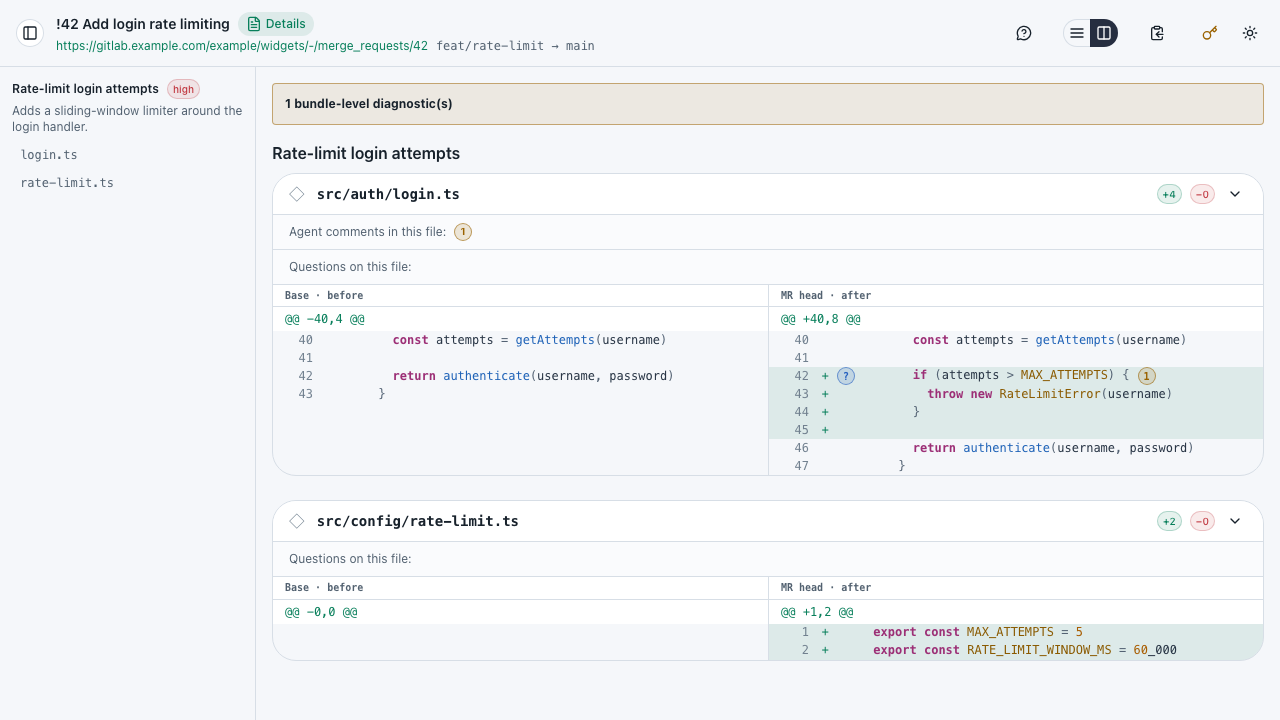
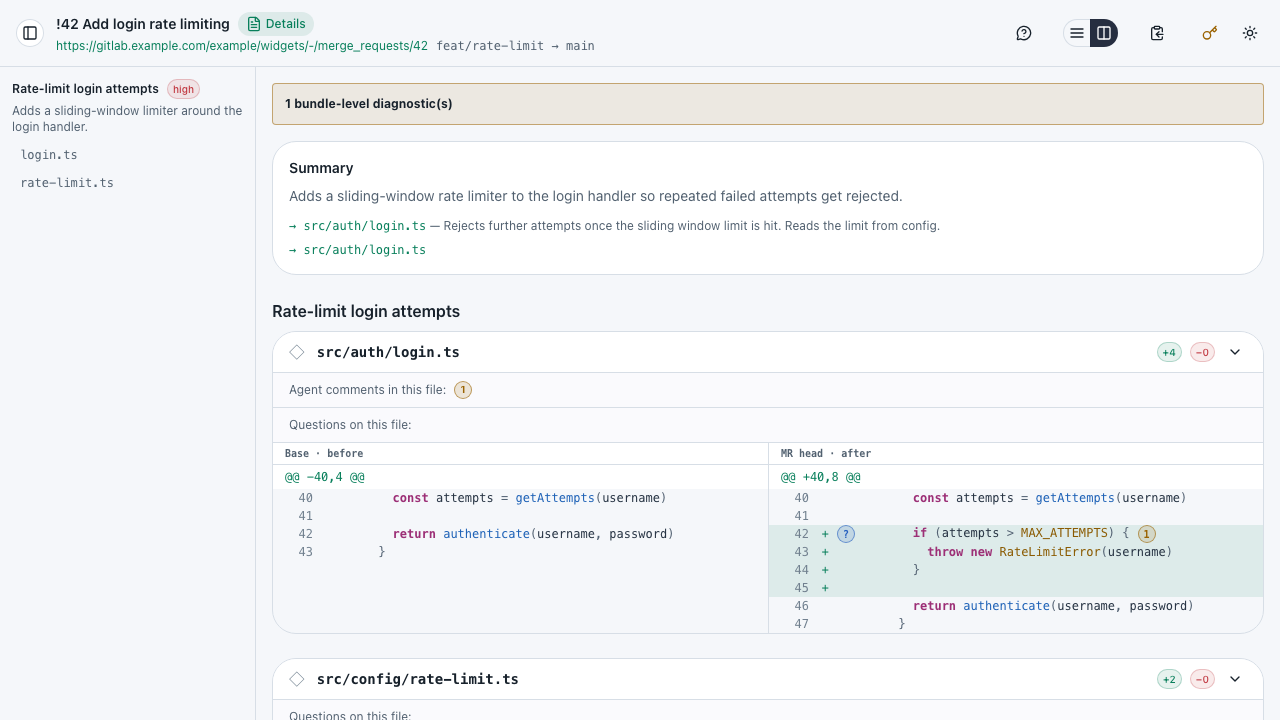
feat: add a Summary panel to the Review Document
Adds an optional summary field to the Review Document schema —
{ text, highlightAnnotationIds?, highlightPaths? } — so a reviewer can
scan intent and jump to the most important annotations/files before
reading the full diff.

- schema + types: validate the new optional summary shape
- renderer: resolves highlightAnnotationIds/highlightPaths onto the
  view model, dropping dangling refs silently (same treatment as
  other cross-references in the document)
- UI: new SummaryPanel.vue rendered above the diff, reusing the
  existing anchorId/scrollIntoView jump pattern
- Generator docs (SKILL.md, FRAMEWORK.md, framework.md) updated so
  future generations populate it

Also fixes two pre-existing e2e fragilities the layout shift exposed:
a floating-popover/Playwright-autoscroll race, and a subpixel
anti-aliasing screenshot flake.

diff --git a/e2e/review-workspace.spec.ts b/e2e/review-workspace.spec.ts
@@ -15,7 +15,7 @@ async function forceLightMode(page: Page) {
 
 async function waitForReviewLoaded(page: Page) {
   await expect(page.getByRole('heading', { name: 'Rate-limit login attempts' })).toBeVisible()
-  await expect(page.getByText('src/auth/login.ts')).toBeVisible()
+  await expect(page.getByText('src/auth/login.ts').first()).toBeVisible()
 }
 
 function bannerButtons(page: Page) {
@@ -58,6 +58,16 @@ test.describe('enriched bundle', () => {
     await dialog.screenshot({ path: join(docScreenshots, 'mr-details.png') })
   })
 
+  test('shows a Summary panel that jumps to a highlighted file on click', async ({ page }) => {
+    const panel = page.getByRole('region', { name: 'Summary' })
+    await expect(panel.getByText('Adds a sliding-window rate limiter')).toBeVisible()
+    await expect(panel).toHaveScreenshot('summary-panel.png')
+    await panel.screenshot({ path: join(docScreenshots, 'summary-panel.png') })
+
+    await panel.getByRole('button', { name: '→ src/auth/login.ts' }).first().click()
+    await expect(page.locator('#file-src-auth-login-ts')).toBeInViewport()
+  })
+
   test('opens annotation note popover', async ({ page }) => {
     await page.getByRole('button', { name: /Note 1:/ }).click()
     const popover = page.locator('div.w-80').filter({ hasText: 'Rejects further attempts' })
@@ -68,11 +78,20 @@ test.describe('enriched bundle', () => {
   })
 
   test('shows related code preview in annotation popover', async ({ page }) => {
-    await page.getByRole('button', { name: /Note 1:/ }).click()
+    // The Summary panel pushes this annotation further down the page than the default
+    // viewport height, and Reka UI's floating popover re-flips/re-shifts on every
+    // scroll tick — racing Playwright's own auto-scroll-into-view for the screenshot
+    // and never settling. A taller viewport gives the popover room without flipping.
+    await page.setViewportSize({ width: 1280, height: 1400 })
+    const trigger = page.getByRole('button', { name: /Note 1:/ })
+    await trigger.scrollIntoViewIfNeeded()
+    await trigger.click()
     const popover = page.locator('div.w-80').filter({ hasText: 'Rejects further attempts' })
     await popover.getByRole('button', { name: '→ src/config/rate-limit.ts' }).hover()
     await expect(popover.getByText('export const MAX_ATTEMPTS = 5')).toBeVisible()
-    await expect(popover).toHaveScreenshot('annotation-related-code-preview.png')
+    // A fraction-of-a-pixel scroll offset shifts subpixel text rendering here — tolerate
+    // that anti-aliasing noise, content and structure are already asserted above.
+    await expect(popover).toHaveScreenshot('annotation-related-code-preview.png', { maxDiffPixelRatio: 0.02 })
     await popover.screenshot({ path: join(docScreenshots, 'annotation-related-code-preview.png') })
   })
 })

diff --git a/src/renderer/render.test.ts b/src/renderer/render.test.ts
@@ -231,6 +231,38 @@ describe('render', () => {
   it('resolves a relative bundle path to an absolute one in the prompt', () => {
     expect(buildGeneratorPrompt('.')).toContain(process.cwd())
   })
+
+  it('resolves summary highlightAnnotationIds and highlightPaths onto the view model', () => {
+    const document: ReviewDocument = {
+      schemaVersion: 1,
+      comparison: { base: 'a', head: 'b' },
+      annotations: [{ id: 'an-1', target: { type: 'file', path: 'src/a.ts' }, summary: 'the important bit' }],
+      summary: { text: 'Adds rate limiting.', highlightAnnotationIds: ['an-1'], highlightPaths: ['src/a.ts'] },
+    }
+    const patch: ParsedPatch = { files: [{ path: 'src/a.ts', binary: false, hunks: [] }] }
+    const vm = render(document, patch, [], '/tmp/fake-bundle')
+    expect(vm.summary?.text).toBe('Adds rate limiting.')
+    expect(vm.summary?.highlightAnnotations).toEqual([{ id: 'an-1', target: { type: 'file', path: 'src/a.ts' }, summary: 'the important bit' }])
+    expect(vm.summary?.highlightPaths).toEqual(['src/a.ts'])
+  })
+
+  it('drops dangling highlightAnnotationIds and highlightPaths that reference nothing in the document/patch', () => {
+    const document: ReviewDocument = {
+      schemaVersion: 1,
+      comparison: { base: 'a', head: 'b' },
+      summary: { text: 'x', highlightAnnotationIds: ['does-not-exist'], highlightPaths: ['does/not/exist.ts'] },
+    }
+    const patch: ParsedPatch = { files: [] }
+    const vm = render(document, patch, [], '/tmp/fake-bundle')
+    expect(vm.summary?.highlightAnnotations).toEqual([])
+    expect(vm.summary?.highlightPaths).toEqual([])
+  })
+
+  it('leaves the view model summary undefined when the document has none', () => {
+    const document: ReviewDocument = { schemaVersion: 1, comparison: { base: 'a', head: 'b' } }
+    const vm = render(document, { files: [] }, [], '/tmp/fake-bundle')
+    expect(vm.summary).toBeUndefined()
+  })
 })
 
 describe('no Generator is ever launched by this codebase', () => {

diff --git a/ui/src/components/SummaryPanel.vue b/ui/src/components/SummaryPanel.vue
@@ -1,0 +1,33 @@
+<script setup lang="ts">
+import type { RenderedSummary } from '../types.ts'
+import { anchorId } from '../diff-layout.ts'
+import { renderMarkdown } from '../markdown.ts'
+
+defineProps<{ summary: RenderedSummary }>()
+
+function jump(path: string) {
+  document.getElementById(anchorId(path))?.scrollIntoView({ behavior: 'smooth', block: 'start' })
+}
+</script>
+
+<template>
+  <section role="region" aria-label="Summary" class="mb-6 rounded-lg border border-default bg-elevated p-4">
+    <h2 class="mb-2 text-sm font-semibold">Summary</h2>
+    <div class="markdown-body mb-3 text-sm text-muted" v-html="renderMarkdown(summary.text)" />
+
+    <ul v-if="summary.highlightAnnotations.length" class="mb-2 space-y-1 text-xs">
+      <li v-for="annotation in summary.highlightAnnotations" :key="annotation.id">
+        <button type="button" class="font-mono text-primary hover:underline" @click="jump(annotation.target.path)">
+          → {{ annotation.target.path }}
+        </button>
+        <span class="text-muted"> — {{ annotation.summary }}</span>
+      </li>
+    </ul>
+
+    <ul v-if="summary.highlightPaths.length" class="flex flex-wrap gap-2 text-xs">
+      <li v-for="path in summary.highlightPaths" :key="path">
+        <button type="button" class="font-mono text-primary hover:underline" @click="jump(path)">→ {{ path }}</button>
+      </li>
+    </ul>
+  </section>
+</template>

diff --git a/ui/src/views/DiffReviewView.vue b/ui/src/views/DiffReviewView.vue
@@ -5,6 +5,7 @@ import FileNav from '../components/FileNav.vue'
 import MrDetailsSlideover from '../components/MrDetailsSlideover.vue'
 import QuestionsSlideover from '../components/QuestionsSlideover.vue'
 import ReviewHeader from '../components/ReviewHeader.vue'
+import SummaryPanel from '../components/SummaryPanel.vue'
 import { useCopyFeedback } from '../composables/useCopyFeedback.ts'
 import { useReviewView } from '../composables/useReviewView.ts'
 import { buildAnnotationNumbers } from '../annotation-numbers.ts'
@@ -105,6 +106,7 @@ async function onQuestionSelect(entry: (typeof questionEntries.value)[number]) {
         <div v-if="viewModel.diagnostics.length" class="mb-4 rounded border border-warning/50 bg-warning/10 p-3 text-xs">
           <strong>{{ viewModel.diagnostics.length }} bundle-level diagnostic(s)</strong>
         </div>
+        <SummaryPanel v-if="viewModel.summary" :summary="viewModel.summary" />
         <section v-for="(bucket, i) in groupedFiles" :key="bucket.group?.id ?? `ungrouped-${i}`" class="mb-8">
           <h2 v-if="bucket.group" class="mb-2 text-base font-semibold">{{ bucket.group.title }}</h2>
           <h2 v-else class="mb-2 text-base font-semibold text-muted">Other changes</h2>

diff --git a/src/renderer/render.ts b/src/renderer/render.ts
@@ -9,6 +9,7 @@ import type {
   RenderedImageEvidence,
   RenderedLine,
   RenderedPipelineEvidence,
+  RenderedSummary,
   SideBySideRow,
   ViewModel,
 } from './types.ts'
@@ -201,5 +202,19 @@ export function render(document: ReviewDocument, patch: ParsedPatch, diagnostics
     diagnostics: bundleLevelDiagnostics,
     generatorPrompt: buildGeneratorPrompt(bundlePath),
     answers: document.answers ?? [],
+    summary: renderSummary(document, attachedPaths),
+  }
+}
+
+/** Dangling ids/paths are dropped rather than diagnosed — same treatment as evidence/verification targetIds. */
+function renderSummary(document: ReviewDocument, attachedPaths: Set<string>): RenderedSummary | undefined {
+  if (!document.summary) return undefined
+  const annotationsById = new Map((document.annotations ?? []).map((a) => [a.id, a]))
+  return {
+    text: document.summary.text,
+    highlightAnnotations: (document.summary.highlightAnnotationIds ?? [])
+      .map((id) => annotationsById.get(id))
+      .filter((a): a is NonNullable<typeof a> => a !== undefined),
+    highlightPaths: (document.summary.highlightPaths ?? []).filter((path) => attachedPaths.has(path)),
   }
 }

diff --git a/src/schema/validate.test.ts b/src/schema/validate.test.ts
@@ -43,6 +43,18 @@ describe('validateReviewDocumentSchema', () => {
     expect(result.errors?.length).toBeGreaterThan(0)
   })
 
+  it('accepts a summary with highlight annotation ids and paths', () => {
+    const doc = loadFixture('minimal-valid')
+    doc.summary = { text: 'Adds rate limiting.', highlightAnnotationIds: ['an-1'], highlightPaths: ['src/a.ts'] }
+    expect(validateReviewDocumentSchema(doc).valid).toBe(true)
+  })
+
+  it('rejects a summary missing text', () => {
+    const doc = loadFixture('minimal-valid')
+    doc.summary = { highlightAnnotationIds: ['an-1'] }
+    expect(validateReviewDocumentSchema(doc).valid).toBe(false)
+  })
+
   it('rejects a line Target missing expectedText', () => {
     const doc = loadFixture('minimal-valid')
     doc.annotations = [

diff --git a/src/schema/types.ts b/src/schema/types.ts
@@ -75,6 +75,14 @@ export interface Answer {
   evidenceIds?: string[]
 }
 
+export interface Summary {
+  text: string
+  /** Ids of the Annotations most worth a reviewer reading first. */
+  highlightAnnotationIds?: string[]
+  /** Paths of the files most worth a reviewer reading first. */
+  highlightPaths?: string[]
+}
+
 export interface ReviewDocument {
   schemaVersion: number
   comparison: Comparison
@@ -83,4 +91,5 @@ export interface ReviewDocument {
   evidence?: Evidence[]
   verification?: VerificationItem[]
   answers?: Answer[]
+  summary?: Summary
 }

diff --git a/ui/src/types.ts b/ui/src/types.ts
@@ -108,6 +108,12 @@ export interface Answer {
   evidenceIds?: string[]
 }
 
+export interface RenderedSummary {
+  text: string
+  highlightAnnotations: Annotation[]
+  highlightPaths: string[]
+}
+
 export interface ViewModel {
   comparison: Comparison
   groups: RenderedGroup[]
@@ -115,6 +121,7 @@ export interface ViewModel {
   diagnostics: Diagnostic[]
   generatorPrompt: string
   answers: Answer[]
+  summary?: RenderedSummary
 }
 
 export interface Question {

diff --git a/src/renderer/types.ts b/src/renderer/types.ts
@@ -64,6 +64,12 @@ export interface SideBySideRow {
   right: RenderedLine | null
 }
 
+export interface RenderedSummary {
+  text: string
+  highlightAnnotations: Annotation[]
+  highlightPaths: string[]
+}
+
 export interface ViewModel {
   comparison: Comparison
   groups: RenderedGroup[]
@@ -71,4 +77,5 @@ export interface ViewModel {
   diagnostics: Diagnostic[]
   generatorPrompt: string
   answers: Answer[]
+  summary?: RenderedSummary
 }

diff --git a/skills/review-workspace/FRAMEWORK.md b/skills/review-workspace/FRAMEWORK.md
@@ -44,9 +44,12 @@ Written to `review.next.json` in the bundle directory, validated against [`schem
   ],
   answers: [
     { id, questionId, body, evidenceIds?: [string] }   // questionId must match an id from questions.jsonl
-  ]
+  ],
+  summary?: { text, highlightAnnotationIds?: [string], highlightPaths?: [string] }
 }
 ```
+
+`summary` is a brief, top-of-page orientation so a reviewer can scan intent before diving into the full diff — one or two sentences in `text`, plus `highlightAnnotationIds`/`highlightPaths` pointing at the Annotations and files most worth reading first (usually the ones in the highest-risk/first-ordered Behavioral Group). It must not introduce any claim that isn't already backed by an Annotation or Target elsewhere in the document — a dangling id or path is simply dropped by the engine, not diagnosed, so double-check the ids you reference actually exist before publishing.
 
 **Target** (used by `behavioralGroups[].targets`, `annotations[].target`) is one of:
 
@@ -122,7 +125,11 @@ For each Annotation or Behavioral Group that needs support, add Evidence with th
 
 For each `open` entry in `questions.jsonl`, write exactly one Answer referencing its `questionId`, citing Evidence where applicable. Never leave an open Question unanswered if you have the information to answer it — leave it open only when you genuinely don't.
 
-### 6. Publish
+### 6. Write the Summary
+
+Once the map, Annotations, and Evidence exist, write `summary.text` as a one- or two-sentence statement of what this change does — pull from the highest-order Behavioral Group's `description` rather than re-deriving it. Set `highlightAnnotationIds`/`highlightPaths` to the handful of Annotations/files a reviewer should read first (usually the highest-risk group's). Skip it entirely for a trivial or single-file change where a Summary wouldn't tell a reviewer anything the diff itself doesn't already.
+
+### 7. Publish
 
 Write the document to `review.next.json`, then run `review-workspace publish <bundle>` (the engine's CLI). Report the result:
 

diff --git a/skills/review-workspace/SKILL.md b/skills/review-workspace/SKILL.md
@@ -45,8 +45,9 @@ For an **existing** bundle someone's already reviewing (Questions raised, feedba
 4. Write Evidence, classified `observed` / `author-claim` / `inference`.
 5. Write Verification items, honestly `unverified` unless real proof already exists.
 6. Answer any `open` Questions from `questions.jsonl` (one Answer per Question, citing Evidence where applicable).
-7. Save the result as `review.next.json` in the bundle directory.
-8. Run `npx review-workspace publish <bundle>` and report the outcome, including any Diagnostics.
+7. Write a brief `summary` (a sentence or two, plus the most important Annotation/file pointers) so a reviewer can scan intent before the full diff — skip it for a trivial change.
+8. Save the result as `review.next.json` in the bundle directory.
+9. Run `npx review-workspace publish <bundle>` and report the outcome, including any Diagnostics.
 
 Generation is complete when `publish` succeeds and every source file/hunk in the patch is covered by at least a File-level Target (a Behavioral Group or Annotation), per the framework's validation contract.
 

diff --git a/docs/framework.md b/docs/framework.md
@@ -71,8 +71,11 @@ The Review Document describes concepts, never components or layout. Its core col
 - Evidence
 - Verification items and gaps
 - Answers
+- Summary (optional)
 
 The document requires an integer `schemaVersion` and exact Comparison identity. A minimally enriched document is valid; missing optional interpretation falls back to the complete patch in patch order.
+
+An optional Summary is a short, top-of-page orientation: brief text plus pointers (`highlightAnnotationIds`, `highlightPaths`) at the Annotations and files most worth reading first. It only points at Targets and Annotations that already exist elsewhere in the document — it never introduces new claims of its own. A dangling id or path is dropped silently, the same treatment as any other cross-reference in the document.
 
 ## Targets
 
